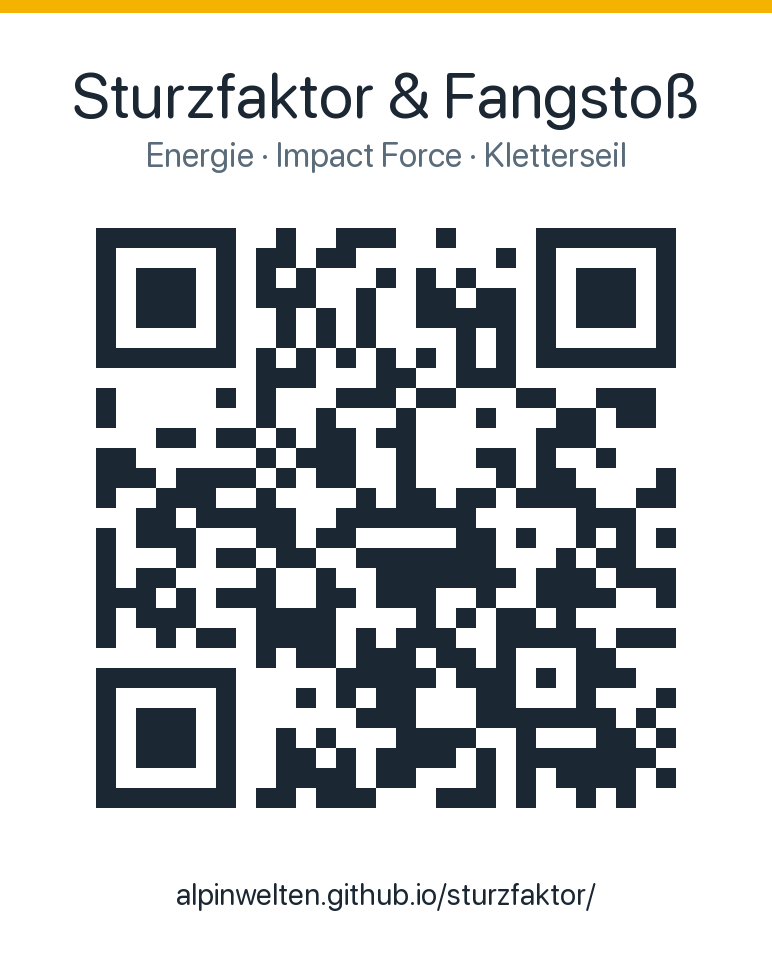
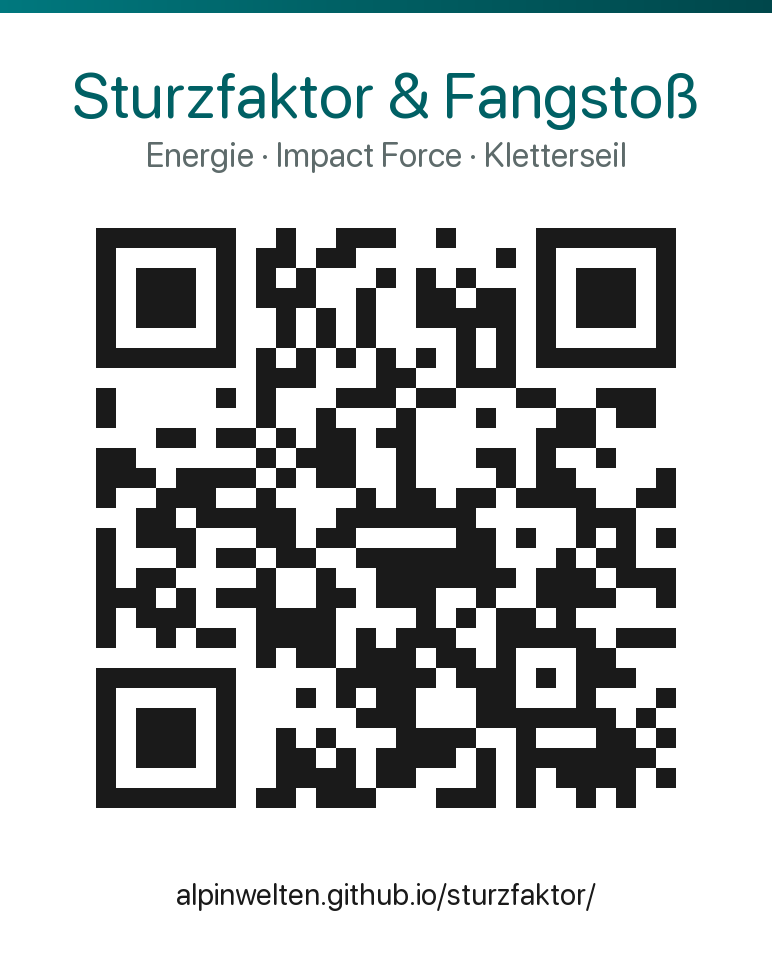
QR-Karte auf Klar·Teal: Hero-Verlaufsbalken + Brand-Titel statt Amber/Schiefer (Muster: tourenzeit make-qr.py); URL unverändert

diff --git a/tools/make-qr.py b/tools/make-qr.py
@@ -14,8 +14,10 @@ from PIL import Image, ImageDraw, ImageFont
 ROOT = Path(__file__).resolve().parent.parent
 URL = sys.argv[1] if len(sys.argv) > 1 else "https://alpinwelten.github.io/sturzfaktor/"
 
-INK = (27, 39, 51)       # Anthrazit/Schiefer
-ACCENT = (245, 179, 1)   # Signal-Amber
+INK = (26, 26, 26)       # Klar·Teal --ink #1A1A1A (QR-Module + URL)
+BRAND = (0, 96, 100)     # Klar·Teal --brand #006064 (Titel)
+HERO = [(0, 120, 126), (0, 96, 100), (0, 71, 75)]  # Hero-Verlauf #00787E->#006064->#00474B
+MUTED = (94, 107, 107)   # Klar·Teal --meta #5E6B6B
 WHITE = (255, 255, 255)
 
 def make_qr(url, box=20, border=2):
@@ -63,11 +65,20 @@ card = Image.new("RGB", (W + 2 * pad, qr.height + top + bottom), WHITE)
 draw = ImageDraw.Draw(card)
 cx = card.width // 2
 
-# Akzent-Leiste oben
-draw.rectangle([0, 0, card.width, 12], fill=ACCENT)
+# Marken-Leiste oben: Hero-Verlauf
+for x in range(card.width):
+    t = x / max(1, card.width - 1)
+    if t < 0.45:
+        f = t / 0.45
+        c0, c1 = HERO[0], HERO[1]
+    else:
+        f = (t - 0.45) / 0.55
+        c0, c1 = HERO[1], HERO[2]
+    col = tuple(round(c0[i] + (c1[i] - c0[i]) * f) for i in range(3))
+    draw.rectangle([x, 0, x + 1, 12], fill=col)
 
-center_text(draw, cx, pad, "Sturzfaktor & Fangstoß", title_f, INK)
-center_text(draw, cx, pad + 78, "Energie · Impact Force · Kletterseil", sub_f, (90, 107, 122))
+center_text(draw, cx, pad, "Sturzfaktor & Fangstoß", title_f, BRAND)
+center_text(draw, cx, pad + 78, "Energie · Impact Force · Kletterseil", sub_f, MUTED)
 
 card.paste(qr, (pad, top))
 center_text(draw, cx, top + qr.height + 28,
